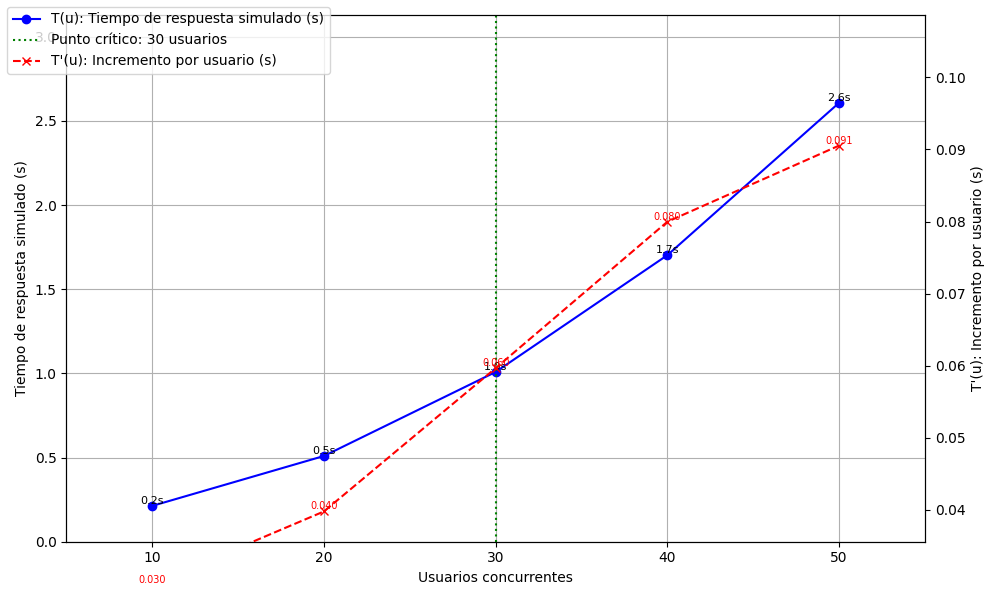
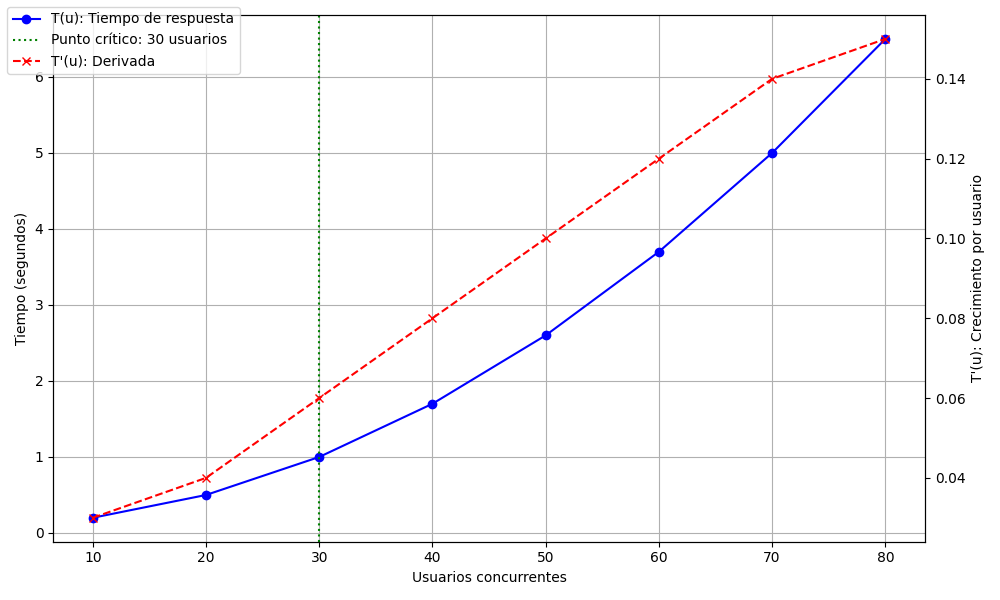
Funciona de pana v.2

diff --git a/app.py b/app.py
@@ -2,122 +2,161 @@ import asyncio
 import time
 import numpy as np
 import matplotlib.pyplot as plt
-from flask import Flask, request, render_template_string, jsonify
+from flask import Flask, request, render_template_string, jsonify, send_file
 import threading
+import os
 
 app = Flask(__name__)
 
+# --- Configuración global ---
 MAX_USERS = 100
+USER_STEP = 10
 SIMULATED_LATENCY_BASE = 0.1
 SIMULATED_LATENCY_FACTOR = 0.001
+DERIVATIVE_THRESHOLD = 0.05
 
 results = []
 TARGET_URL = ""
+SIMULATION_RUNNING = False
 
+# --- Página principal ---
 @app.route("/", methods=["GET", "POST"])
 def home():
-    global TARGET_URL
+    global TARGET_URL, SIMULATION_RUNNING
+
     if request.method == "POST":
-        TARGET_URL = request.form.get("url")
+        if SIMULATION_RUNNING:
+            return render_template_string("""
+                <h3>⏳ Una simulación ya está en curso. Por favor espera que finalice.</h3>
+                <a href='/'>Volver</a>
+            """)
+
+        TARGET_URL = request.form.get("url").strip()
+        if not TARGET_URL.startswith("http"):
+            return "<h3>❌ URL inválida. Debe comenzar con http o https.</h3><a href='/'>Volver</a>"
+
         t = threading.Thread(target=lambda: asyncio.run(run_simulation()))
         t.start()
+
         return render_template_string("""
-            <h2>La simulación ficticia para '{{url}}' se está ejecutando en segundo plano.</h2>
-            <p>Progreso simulado: <span id="counter">0</span> usuarios procesados...</p>
-            <p>Espera unos segundos y luego <a href='/graph'>haz clic aquí para ver los resultados</a>.</p>
+            <h2>🔍 Simulación iniciada para: '{{url}}'</h2>
+            <p>Progreso: <span id="counter">0</span> usuarios procesados...</p>
             <script>
                 const counter = document.getElementById("counter");
-                async function fetchProgress() {
+                async function checkProgress() {
                     const res = await fetch("/progress");
                     const data = await res.json();
                     counter.innerText = data.processed;
-                    if (data.processed < data.total) {
-                        setTimeout(fetchProgress, 1000);
+                    if (!data.finished) {
+                        setTimeout(checkProgress, 1000);
                     }
                 }
-                fetchProgress();
+                checkProgress();
             </script>
+            <p>Una vez finalizada, puedes revisar <a href='/results'>los resultados del análisis</a>.</p>
         """, url=TARGET_URL)
 
     return render_template_string("""
-        <h1>Simulador Ficticio de Tiempos de Respuesta</h1>
-        <p>Ingresa la URL de referencia para la simulación (no se harán peticiones reales):</p>
+        <h1>🧠 Herramienta Inteligente de Simulación de Rendimiento Web</h1>
+        <p>Ingresa la URL de tu sitio para estimar cómo se comportará ante carga creciente de usuarios.</p>
         <form method="post">
             <input type="text" name="url" placeholder="https://ejemplo.com" size="50" required>
             <button type="submit">Iniciar Simulación</button>
         </form>
+        <p>✔ Esta herramienta no hace peticiones reales. Todo es un modelo matemático.</p>
     """)
 
+# --- Progreso actual ---
 @app.route("/progress")
 def progress():
     last_users = results[-1][0] if results else 0
-    return jsonify(processed=last_users, total=MAX_USERS)
+    return jsonify(processed=last_users, total=MAX_USERS, finished=(last_users >= MAX_USERS))
 
-@app.route("/graph")
-def graph():
+# --- Resultados y análisis visual ---
+@app.route("/results")
+def results_view():
     if not results:
-        return "<h2>No hay resultados disponibles aún. Por favor, espera a que termine la simulación.</h2>"
+        return "<h2>⚠ Aún no hay resultados disponibles.</h2><a href='/'>Volver</a>"
 
-    # ✅ Ordenar por número de usuarios para evitar líneas erráticas
     sorted_results = sorted(results, key=lambda x: x[0])
     users, times = zip(*sorted_results)
     derivative = np.gradient(times, users)
 
     fig, ax = plt.subplots(figsize=(10, 6))
-    ax.plot(users, times, marker='o', color='blue', label='T(u): Tiempo de respuesta simulado (s)')
+    ax.plot(users, times, 'o-', color='blue', label='T(u): Tiempo de respuesta')
     ax.set_xlabel('Usuarios concurrentes')
-    ax.set_ylabel('Tiempo de respuesta simulado (s)')
-    ax.set_xlim(min(users) - 5, max(users) + 5)
-    ax.set_ylim(0, max(times)*1.2)
+    ax.set_ylabel('Tiempo (segundos)')
     ax.grid(True)
 
-    # Etiquetas de cada punto
-    for x, y in zip(users, times):
-        ax.text(x, y, f"{y:.1f}s", fontsize=8, ha='center', va='bottom')
-
     ax2 = ax.twinx()
-    ax2.plot(users, derivative, 'r--', marker='x', label="T'(u): Incremento por usuario (s)")
-    ax2.set_ylabel("T'(u): Incremento por usuario (s)")
-    ax2.set_ylim(min(derivative)*1.2, max(derivative)*1.2)
+    ax2.plot(users, derivative, 'r--', marker='x', label="T'(u): Derivada")
+    ax2.set_ylabel("T'(u): Crecimiento por usuario")
 
-    for x, y in zip(users, derivative):
-        ax2.text(x, y, f"{y:.3f}", fontsize=7, color='red', ha='center', va='bottom')
-
-    # Línea del punto crítico
-    punto_critico = next((u for u, d in zip(users, derivative) if d > 0.05), None)
-    if punto_critico:
-        ax.axvline(x=punto_critico, color='green', linestyle=':', label=f'Punto crítico: {punto_critico} usuarios')
+    critical_point = next((u for u, d in zip(users, derivative) if d > DERIVATIVE_THRESHOLD), None)
+    if critical_point:
+        ax.axvline(x=critical_point, color='green', linestyle=':', label=f'Punto crítico: {critical_point} usuarios')
 
     fig.legend(loc='upper left')
     fig.tight_layout()
+
+    os.makedirs("static", exist_ok=True)
     fig.savefig("static/graph.png")
 
-    punto_critico_texto = punto_critico if punto_critico else "No detectado"
+    tips = []
+    if max(times) > 5:
+        tips.append("🚨 El tiempo de respuesta supera los 5 segundos: considera escalar urgentemente.")
+    if critical_point:
+        tips.append(f"📈 Punto crítico estimado: {critical_point} usuarios.")
+    else:
+        tips.append("✅ No se detectaron problemas graves en esta simulación.")
 
     return render_template_string("""
-        <h2>Resultados de la Simulación Ficticia para '{{url}}'</h2>
-        <img src='/static/graph.png' width='800'>
-        <h3>Interpretación de los resultados:</h3>
-        <p>Este es un modelo simulado que estima cómo podría crecer el tiempo de respuesta si un servidor recibiera cada vez más usuarios concurrentes.</p>
-        <p>La curva azul con puntos (T(u)) muestra los tiempos simulados para cada número de usuarios.</p>
-        <p>La línea roja con cruces (T'(u)) indica la tasa de incremento del tiempo por usuario.</p>
-        <p>La línea verde vertical representa el <strong>punto crítico estimado:</strong> {{critico}} usuarios, a partir del cual el rendimiento simulado empieza a degradarse fuertemente.</p>
-        <p>Este análisis ficticio ilustra cómo se puede aplicar el modelado matemático con derivadas para anticipar problemas de rendimiento y planificar el escalamiento.</p>
-        <p><a href='/'>Volver al inicio</a></p>
-    """, url=TARGET_URL, critico=punto_critico_texto)
+        <h2>📊 Análisis del Tiempo de Respuesta para '{{url}}'</h2>
+        <img src='/static/graph.png' width='800'><br>
+        <h3>Resumen técnico:</h3>
+        <ul>
+            <li><strong>T(u)</strong>: Tiempo estimado en segundos para u usuarios concurrentes.</li>
+            <li><strong>T'(u)</strong>: Cambio en tiempo por cada nuevo usuario (derivada).</li>
+        </ul>
+        <h3>🔔 Recomendaciones:</h3>
+        <ul>
+            {% for tip in tips %}<li>{{ tip }}</li>{% endfor %}
+        </ul>
+        <p><a href='/export'>Descargar CSV de resultados</a> | <a href='/'>Volver al inicio</a></p>
+    """, url=TARGET_URL, tips=tips)
 
+# --- Exportar resultados ---
+@app.route("/export")
+def export_data():
+    if not results:
+        return "<h3>No hay datos para exportar.</h3>"
+
+    csv_path = "static/results.csv"
+    with open(csv_path, "w") as f:
+        f.write("usuarios,tiempo\n")
+        for u, t in results:
+            f.write(f"{u},{t:.4f}\n")
+
+    return send_file(csv_path, as_attachment=True)
+
+# --- Simulación asincrónica ---
 async def run_simulation():
-    global results
+    global results, SIMULATION_RUNNING
     results = []
-    for users in range(10, MAX_USERS + 1, 10):
-        avg_response = await simulate_users(users)
-        results.append((users, avg_response))
+    SIMULATION_RUNNING = True
 
+    for users in range(USER_STEP, MAX_USERS + 1, USER_STEP):
+        t = await simulate_users(users)
+        results.append((users, t))
+
+    SIMULATION_RUNNING = False
+
+# --- Simulación base ---
 async def simulate_users(n_users):
-    start = time.time()
-    await asyncio.sleep(SIMULATED_LATENCY_BASE + SIMULATED_LATENCY_FACTOR * n_users * n_users)
-    end = time.time()
-    return end - start
+    latency = SIMULATED_LATENCY_BASE + SIMULATED_LATENCY_FACTOR * (n_users ** 2)
+    await asyncio.sleep(latency)
+    return latency
 
+# --- Iniciar app ---
 if __name__ == "__main__":
     app.run(debug=True)
